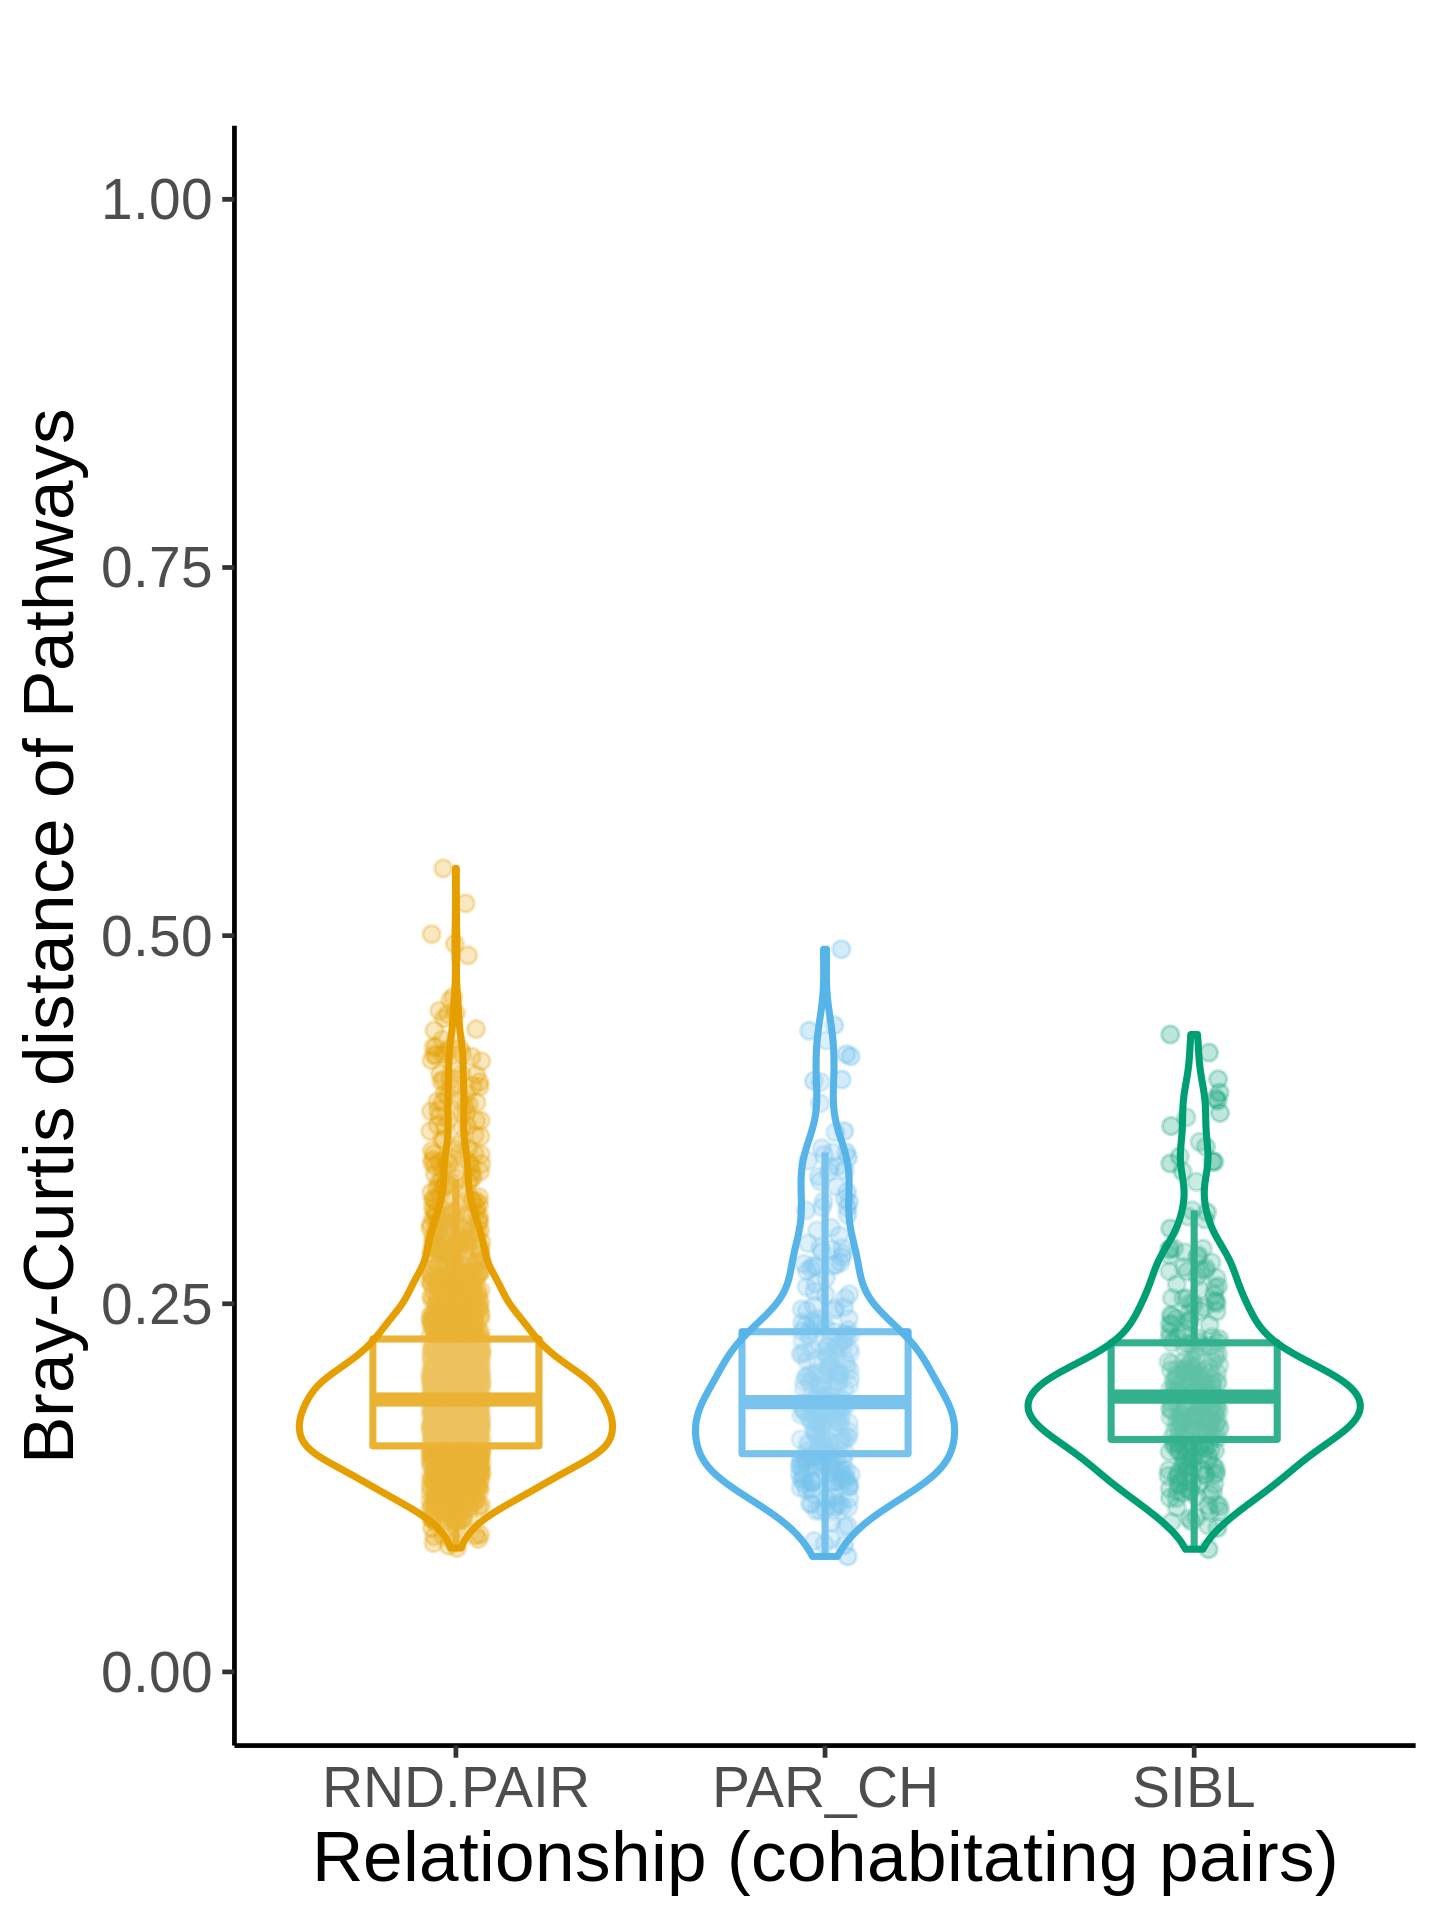
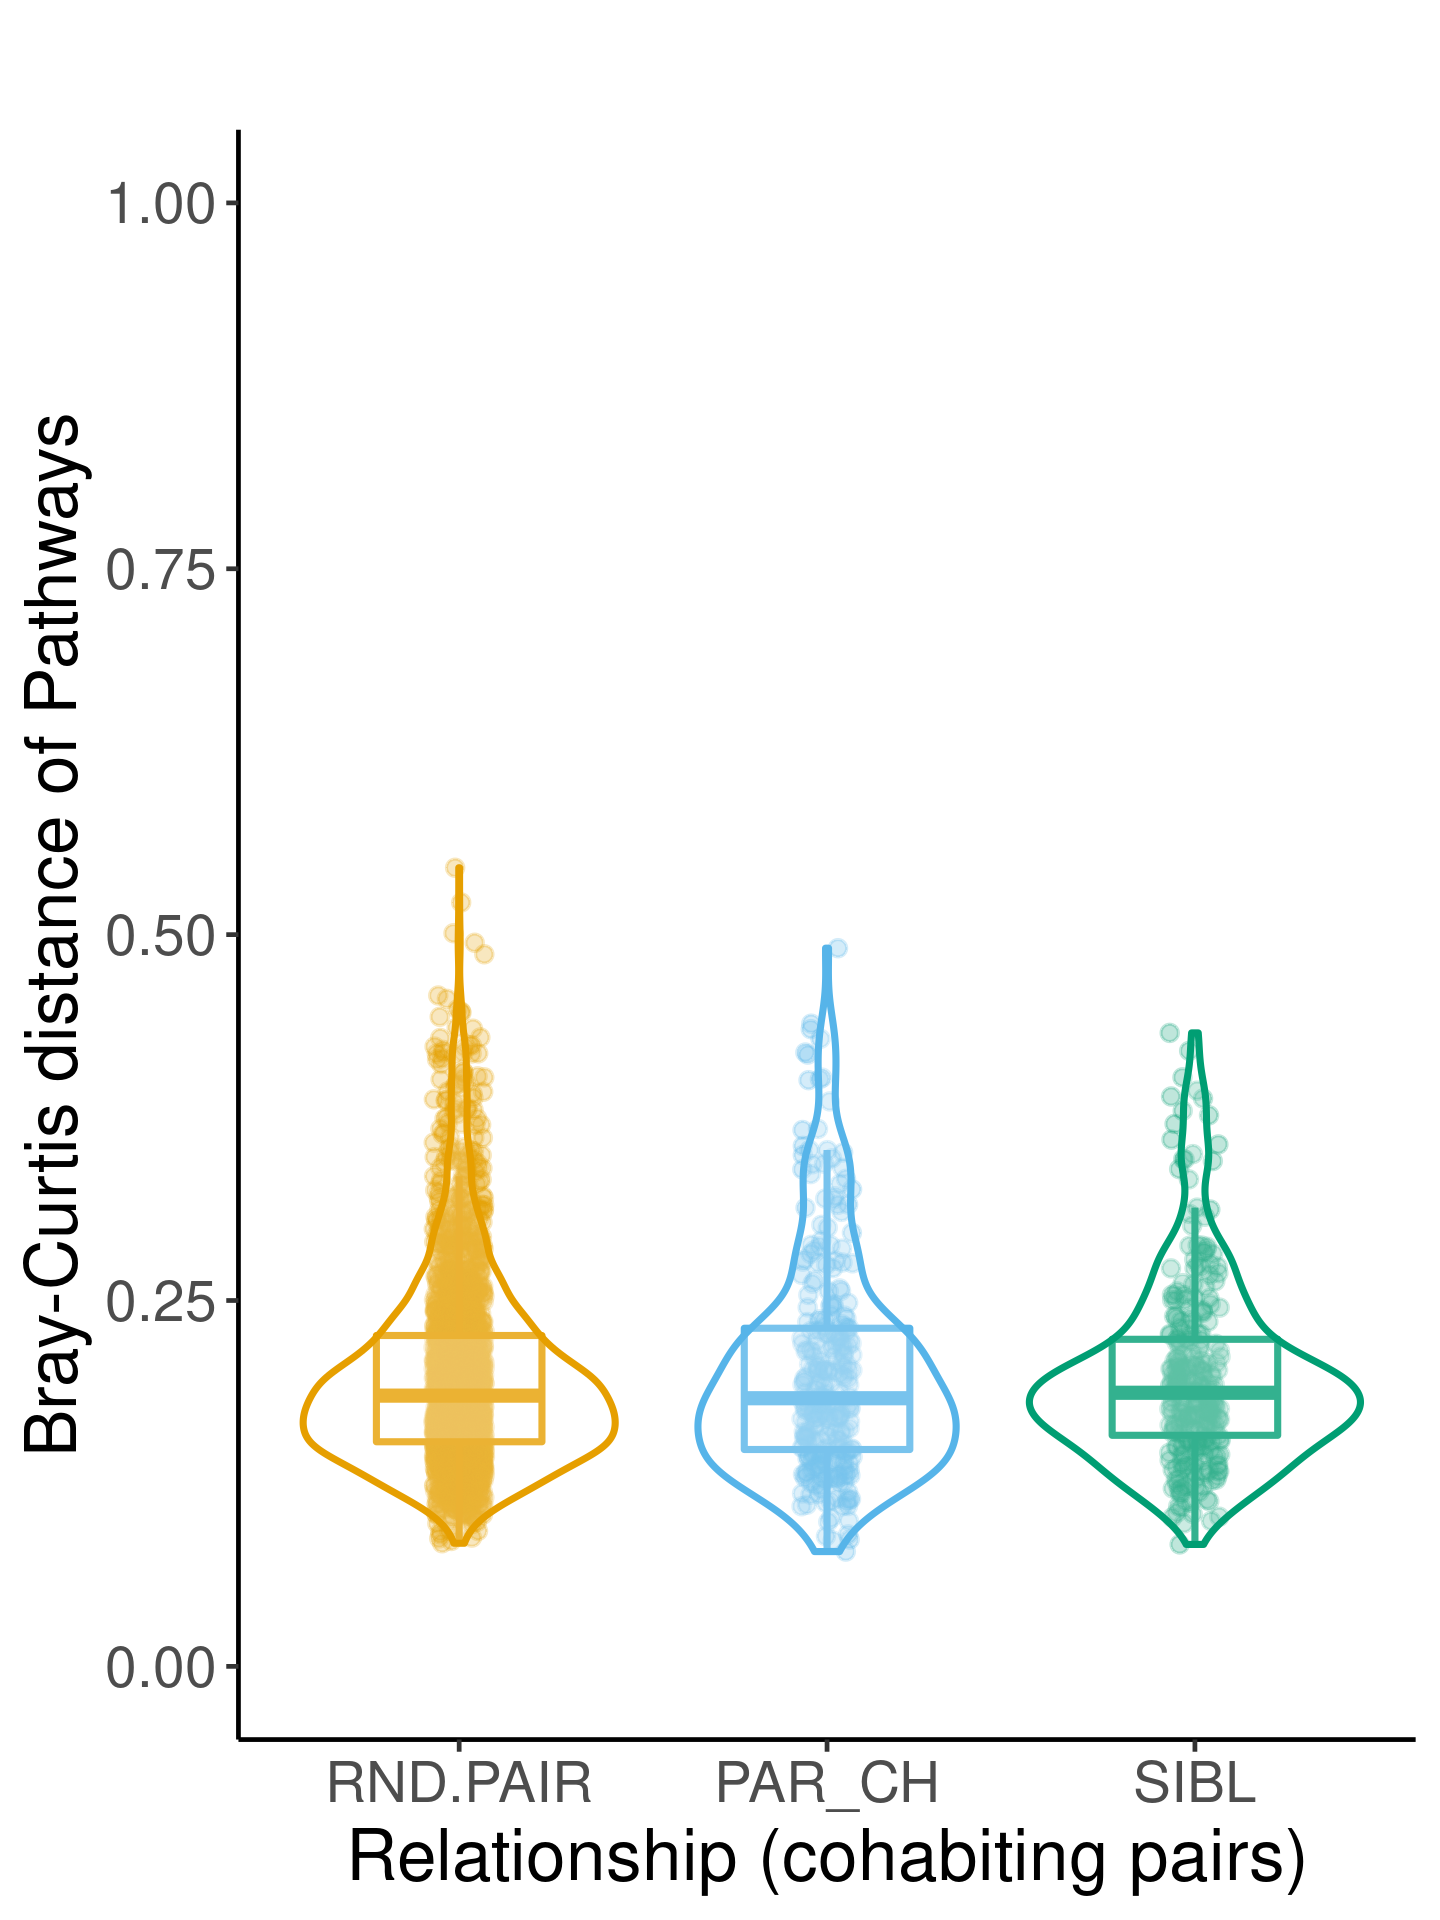
heritability real data plots

diff --git a/heritability_analysis_v2/README.md b/heritability_analysis_v2/README.md
@@ -36,6 +36,7 @@ The folder contains R scripts used to execute heritability analysis for DMP proj
 
 - README.md : this readme file
 - bacpaths.txt : list of bacterial pathways used in DMP project (required by DMP_heritability_v10_mockdata_collectdata.R script)
+- DMP_heritability_v10_realdata_plotresults.R : script uses summary statistics of heritability analysis to plot results (DMP Fig. 2a-b)
 - DMP_heritability_v10_mockdata_taxa.R : script for heritability analysis of microbiome taxa, requires unzipped mock data
 - DMP_heritability_v10_mockdata_pwys.R : script for heritability analysis of microbiome pathways, requires unzipped mock data
 - DMP_heritability_v10_mockdata_collectdata.R : script for collecting results and study-wide FDR analysis using permutation runs. Requires results of DMP_heritability_v10_mockdata_taxa.R & DMP_heritability_v10_mockdata_pwys.R
